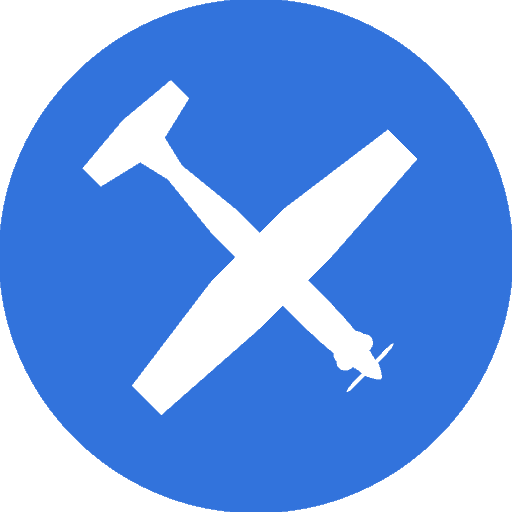
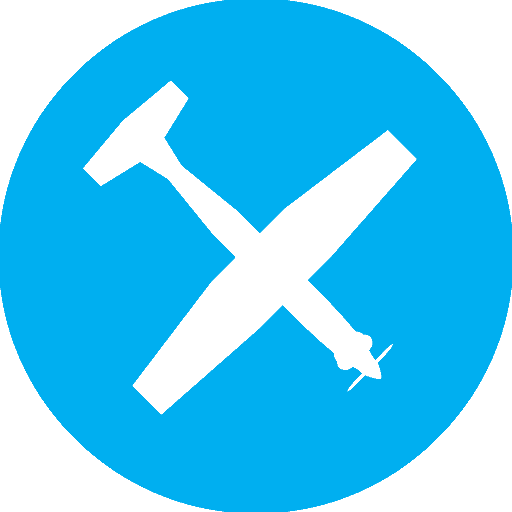
changed colors and homepage layout

diff --git a/service-worker.js b/service-worker.js
@@ -1,1 +1,1 @@
-if(!self.define){const e=e=>{"require"!==e&&(e+=".js");let r=Promise.resolve();return n[e]||(r=new Promise((async r=>{if("document"in self){const n=document.createElement("script");n.src=e,document.head.appendChild(n),n.onload=r}else importScripts(e),r()}))),r.then((()=>{if(!n[e])throw new Error(`Module ${e} didn’t register its module`);return n[e]}))},r=(r,n)=>{Promise.all(r.map(e)).then((e=>n(1===e.length?e[0]:e)))},n={require:Promise.resolve(r)};self.define=(r,s,i)=>{n[r]||(n[r]=Promise.resolve().then((()=>{let n={};const u={uri:location.origin+r.slice(1)};return Promise.all(s.map((r=>{switch(r){case"exports":return n;case"module":return u;default:return e(r)}}))).then((e=>{const r=i(...e);return n.default||(n.default=r),n}))})))}}define("./service-worker.js",["./workbox-3a2d8142"],(function(e){"use strict";self.skipWaiting(),e.clientsClaim(),e.precacheAndRoute([{url:"bundle.220ab6110092bc21076b.js",revision:null},{url:"bundle.3a3b2f13a5dedc41769c.js",revision:null},{url:"bundle.76da11abb8f7f012b419.js",revision:null},{url:"bundle.bc91dde5cce447606c2b.js",revision:null},{url:"bundle.bc91dde5cce447606c2b.js.LICENSE.txt",revision:"c2401a08dec9a8a479dbaf76e44307e3"},{url:"index.html",revision:"828b6e00d19fd63ed387344567e165be"}],{}),e.registerRoute(/\.(?:png|jpg|jpeg|svg)$/,new e.CacheFirst({cacheName:"images",plugins:[new e.ExpirationPlugin({maxEntries:1e4,purgeOnQuotaError:!0})]}),"GET")}));
+if(!self.define){const e=e=>{"require"!==e&&(e+=".js");let r=Promise.resolve();return n[e]||(r=new Promise((async r=>{if("document"in self){const n=document.createElement("script");n.src=e,document.head.appendChild(n),n.onload=r}else importScripts(e),r()}))),r.then((()=>{if(!n[e])throw new Error(`Module ${e} didn’t register its module`);return n[e]}))},r=(r,n)=>{Promise.all(r.map(e)).then((e=>n(1===e.length?e[0]:e)))},n={require:Promise.resolve(r)};self.define=(r,s,i)=>{n[r]||(n[r]=Promise.resolve().then((()=>{let n={};const u={uri:location.origin+r.slice(1)};return Promise.all(s.map((r=>{switch(r){case"exports":return n;case"module":return u;default:return e(r)}}))).then((e=>{const r=i(...e);return n.default||(n.default=r),n}))})))}}define("./service-worker.js",["./workbox-3a2d8142"],(function(e){"use strict";self.skipWaiting(),e.clientsClaim(),e.precacheAndRoute([{url:"bundle.220ab6110092bc21076b.js",revision:null},{url:"bundle.3a3b2f13a5dedc41769c.js",revision:null},{url:"bundle.b51476868d994ada2873.js",revision:null},{url:"bundle.b51476868d994ada2873.js.LICENSE.txt",revision:"c2401a08dec9a8a479dbaf76e44307e3"},{url:"bundle.c117a8e3ef790ff7e215.js",revision:null},{url:"index.html",revision:"7e12ba39d368bfbfdd4fdc6478346b4f"}],{}),e.registerRoute(/\.(?:png|jpg|jpeg|svg)$/,new e.CacheFirst({cacheName:"images",plugins:[new e.ExpirationPlugin({maxEntries:1e4,purgeOnQuotaError:!0})]}),"GET")}));

diff --git a/client/css/index.css b/client/css/index.css
@@ -108,7 +108,7 @@ body {
   background-size: contain;
   width: 322px;
   height: 156px;
-  margin-top: -5px;
+  margin-top: 10px;
 }
 
 .vt2Patch {
@@ -116,8 +116,8 @@ body {
   background-position: center center;
   background-repeat: no-repeat;
   background-size: contain;
-  width: 75px;
-  height: 75px;
+  width: 100px;
+  height: 100px;
   display: inline-block;
 }
 .vt3Patch {
@@ -125,8 +125,8 @@ body {
   background-position: center center;
   background-repeat: no-repeat;
   background-size: contain;
-  width: 75px;
-  height: 75px;
+  width: 100px;
+  height: 100px;
   margin-left: 2%;
   display: inline-block;
 }
@@ -135,8 +135,8 @@ body {
   background-position: center center;
   background-repeat: no-repeat;
   background-size: contain;
-  width: 75px;
-  height: 75px;
+  width: 100px;
+  height: 100px;
   margin-left: 2%;
   display: inline-block;
 }
@@ -146,8 +146,8 @@ body {
   background-position: center center;
   background-repeat: no-repeat;
   background-size: contain;
-  width: 75px;
-  height: 75px;
+  width: 100px;
+  height: 100px;
   display: inline-block;
 }
 .vt28Patch {
@@ -155,8 +155,8 @@ body {
   background-position: center center;
   background-repeat: no-repeat;
   background-size: contain;
-  width: 75px;
-  height: 75px;
+  width: 100px;
+  height: 100px;
   margin-left: 2%;
   display: inline-block;
 }
@@ -524,7 +524,7 @@ height: 35px;
 border-top-left-radius: 80%;
 border-top-right-radius: 80%;
 
-background-color: hsl(217, 71%, 53%) !important;
+background-color: #00aff0 !important;
 
 animation: slideUp forwards 0.5s;
 font-size: small;
@@ -581,4 +581,22 @@ border-bottom-right-radius: 4px;
 
 #calculateButton {
   background-color:#00aff0 !important;
+}
+
+.fa-tachometer, .iconText, .fa-desktop, .fa-plane,  .fa-home{
+  color: #00aff0;
+  /* color: #4b4b4b */
+  /* color: hsl(204, 86%, 53%) */
+
+}
+
+.squadronFrontPagesTitle {
+  text-align: center;
+  margin-bottom: 30px;
+  text-decoration: underline;
+  color: black;
+}
+
+#sendMessageButton {
+  background-color: #00aff0;
 }

diff --git a/client/pages/App.jsx b/client/pages/App.jsx
@@ -113,7 +113,7 @@ class App extends Component {
 
               <h3 className="earlyAccess">*EARLY ACCESS*</h3>
 
-              <a href="https://www.cnatra.navy.mil/scheds/schedule_data.aspx?sq=vt-2">
+              {/* <a href="https://www.cnatra.navy.mil/scheds/schedule_data.aspx?sq=vt-2">
                 <button className="button2 button is-dark">
                   VT-2 Front Page / Schedule
                 </button>
@@ -137,11 +137,9 @@ class App extends Component {
                 <button className="button27 button is-dark">
                   VT-28 Front Page / Schedule
                 </button>
-              </a>
+              </a> */}
 
-              <div className="t6diagram">
-                <div className="wings"></div>
-              </div>
+              <h2 className="squadronFrontPagesTitle">SQUADRON FRONT PAGES</h2>
 
               <div className="vtPatches">
                 <a href="https://www.cnatra.navy.mil/scheds/schedule_data.aspx?sq=vt-2">
@@ -161,6 +159,10 @@ class App extends Component {
                 <a href="https://www.cnatra.navy.mil/scheds/schedule_data.aspx?sq=vt-28">
                   <span className="vt28Patch"></span>
                 </a>
+              </div>
+
+              <div className="t6diagram">
+                <div className="wings"></div>
               </div>
 
               <div className={`modal ${this.state.feedbackModalActive}`}>

diff --git a/client/components/Dropdowns/FeedbackForm.jsx b/client/components/Dropdowns/FeedbackForm.jsx
@@ -31,7 +31,7 @@ export default function FeedbackForm(props) {
           <div className="control">
             <input
               name="subject"
-              className="input is-link"
+              className="input is-info"
               type="text"
               placeholder="Email"
             ></input>
@@ -43,7 +43,7 @@ export default function FeedbackForm(props) {
           <div className="control">
             <input
               name="subject"
-              className="input is-link"
+              className="input is-info"
               type="text"
               placeholder="Subject"
             ></input>
@@ -55,7 +55,7 @@ export default function FeedbackForm(props) {
           <div className="control has-icons-left">
             <textarea
               name="message"
-              className="textarea is-link"
+              className="textarea is-info"
               type="text"
               placeholder="Message"
             ></textarea>
@@ -63,7 +63,8 @@ export default function FeedbackForm(props) {
 
           <input
             type="submit"
-            className="button is-link sendMessageButton"
+            className="button is-info sendMessageButton"
+            id="sendMessageButton"
             value="Send Message"
           ></input>
         </div>

diff --git a/client/css/animations.css b/client/css/animations.css
@@ -51,7 +51,7 @@
 
 .syllabusDropdownButton:hover{
 
-  background-color: hsl(348, 100%, 61%);
+  background-color: #00aff0;
   color: white;
 }
 
@@ -69,14 +69,14 @@ border: solid hsl(348, 100%, 61%) 1px !important;
 
   .installButton:hover {
 background-color: white !important;
-color: hsl(217, 71%, 53%) !important;
-border: solid hsl(217, 71%, 53%) 1px !important;
+color: #00aff0 !important;
+border: solid #00aff0 1px !important;
   }
 
   #installButton:hover {
     background-color: white !important;
-    color: hsl(217, 71%, 53%) !important;
-    border: solid hsl(217, 71%, 53%) 1px !important;
+    color: #00aff0 !important;
+    border: solid #00aff0 1px !important;
       }
 
       .feedbackButton:hover {
@@ -97,7 +97,7 @@ font-weight: 600;
 }
 
 .dropdown-item:hover {
-  background-color:hsl(348, 100%, 61%) !important;
+  background-color:#00aff0 !important;
   color: white !important;
 }
 

diff --git a/client/css/desktop.css b/client/css/desktop.css
@@ -94,4 +94,11 @@ margin-bottom: 40px;
   font-size: large;
   }
 
+  .syllabusPagesCloseButton {
+      bottom: 95px;
+      width: 190px;
+      height: 70px;
+
+
+  }
 }
